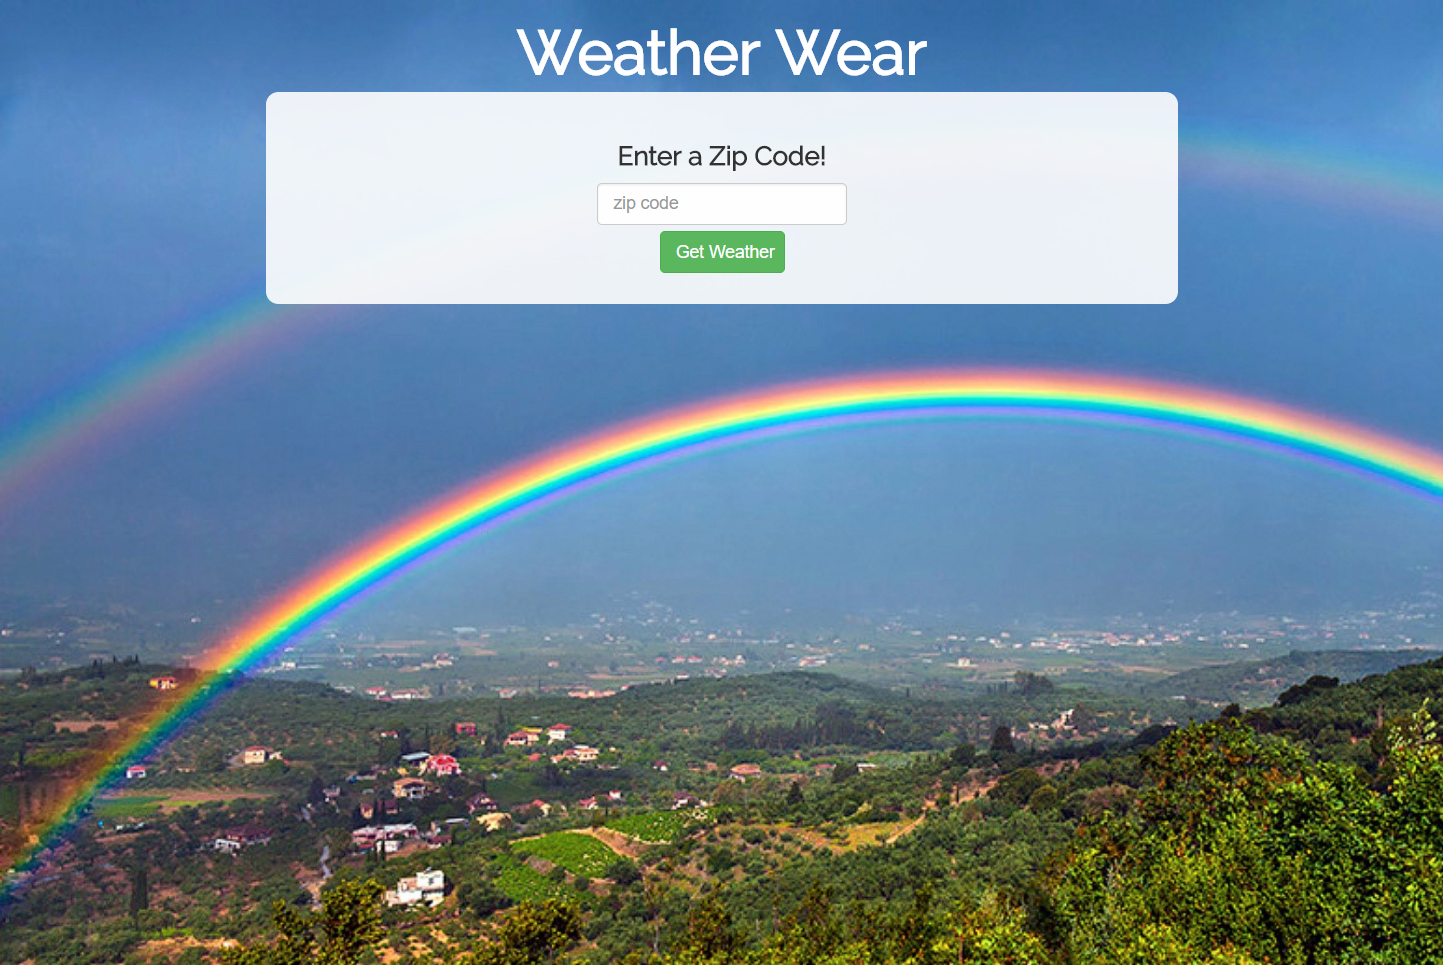
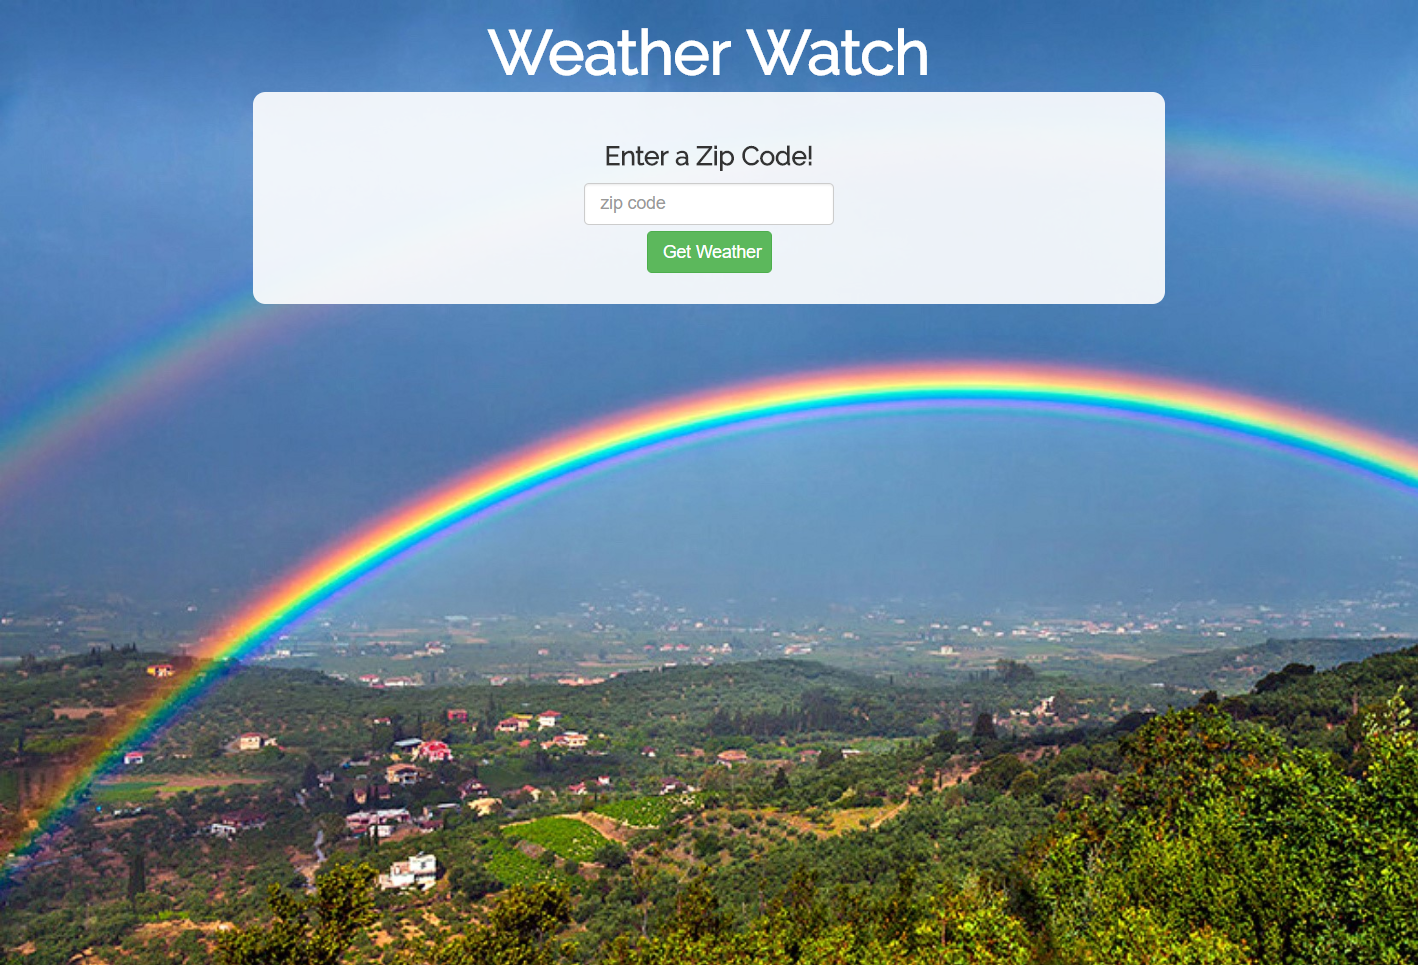
updated screenshots

diff --git a/src/js/App.js b/src/js/App.js
@@ -112,7 +112,7 @@ class App extends React.Component {
       <div className={`main-container ${background}`}>
         {/*<Navbar/>*/}
         
-        <h1 className="title">Weather Wear</h1>
+        <h1 className="title">Weather Watch</h1>
         <div className="white-container">
 
           {

diff --git a/src/js/components/navbar.js b/src/js/components/navbar.js
@@ -4,7 +4,7 @@ import PropTypes from 'prop-types';
 const Navbar = () => {
 
     return <div className="navbar">
-                <h1 className="nav-title">Weather Wear</h1>
+                <h1 className="nav-title">Weather Watch</h1>
             </div>
 }
 
